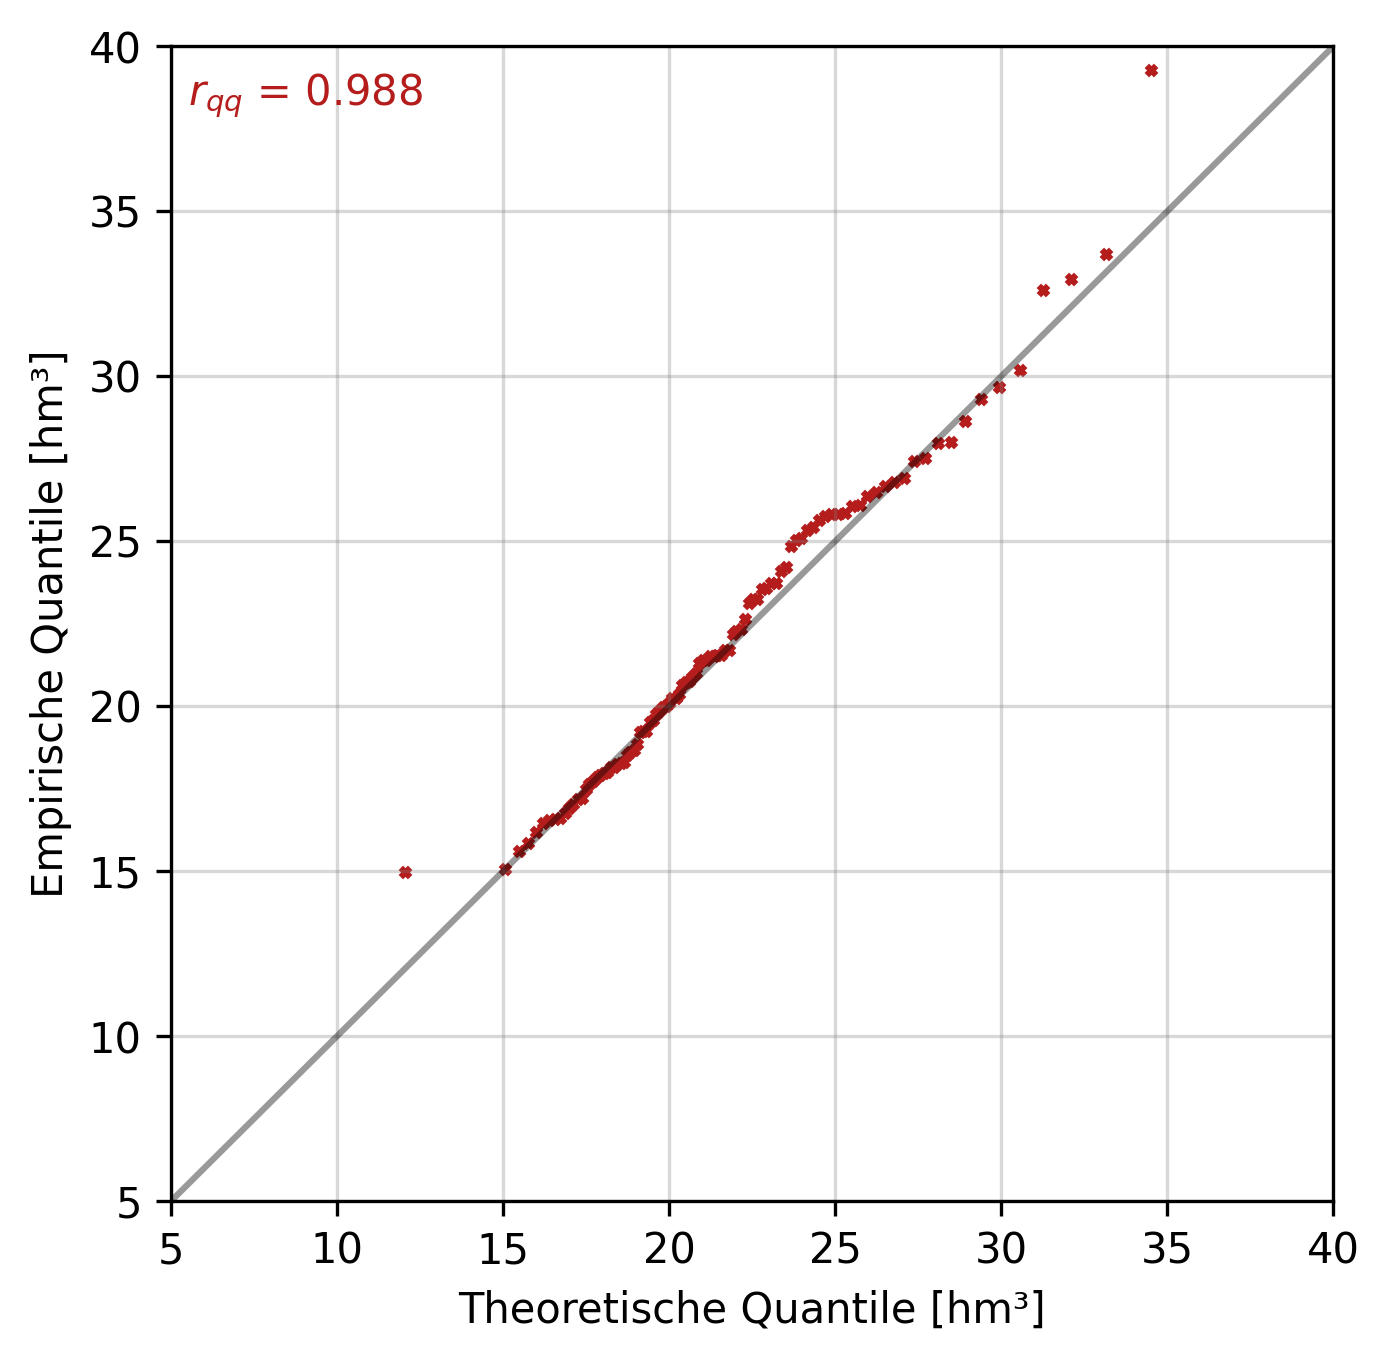
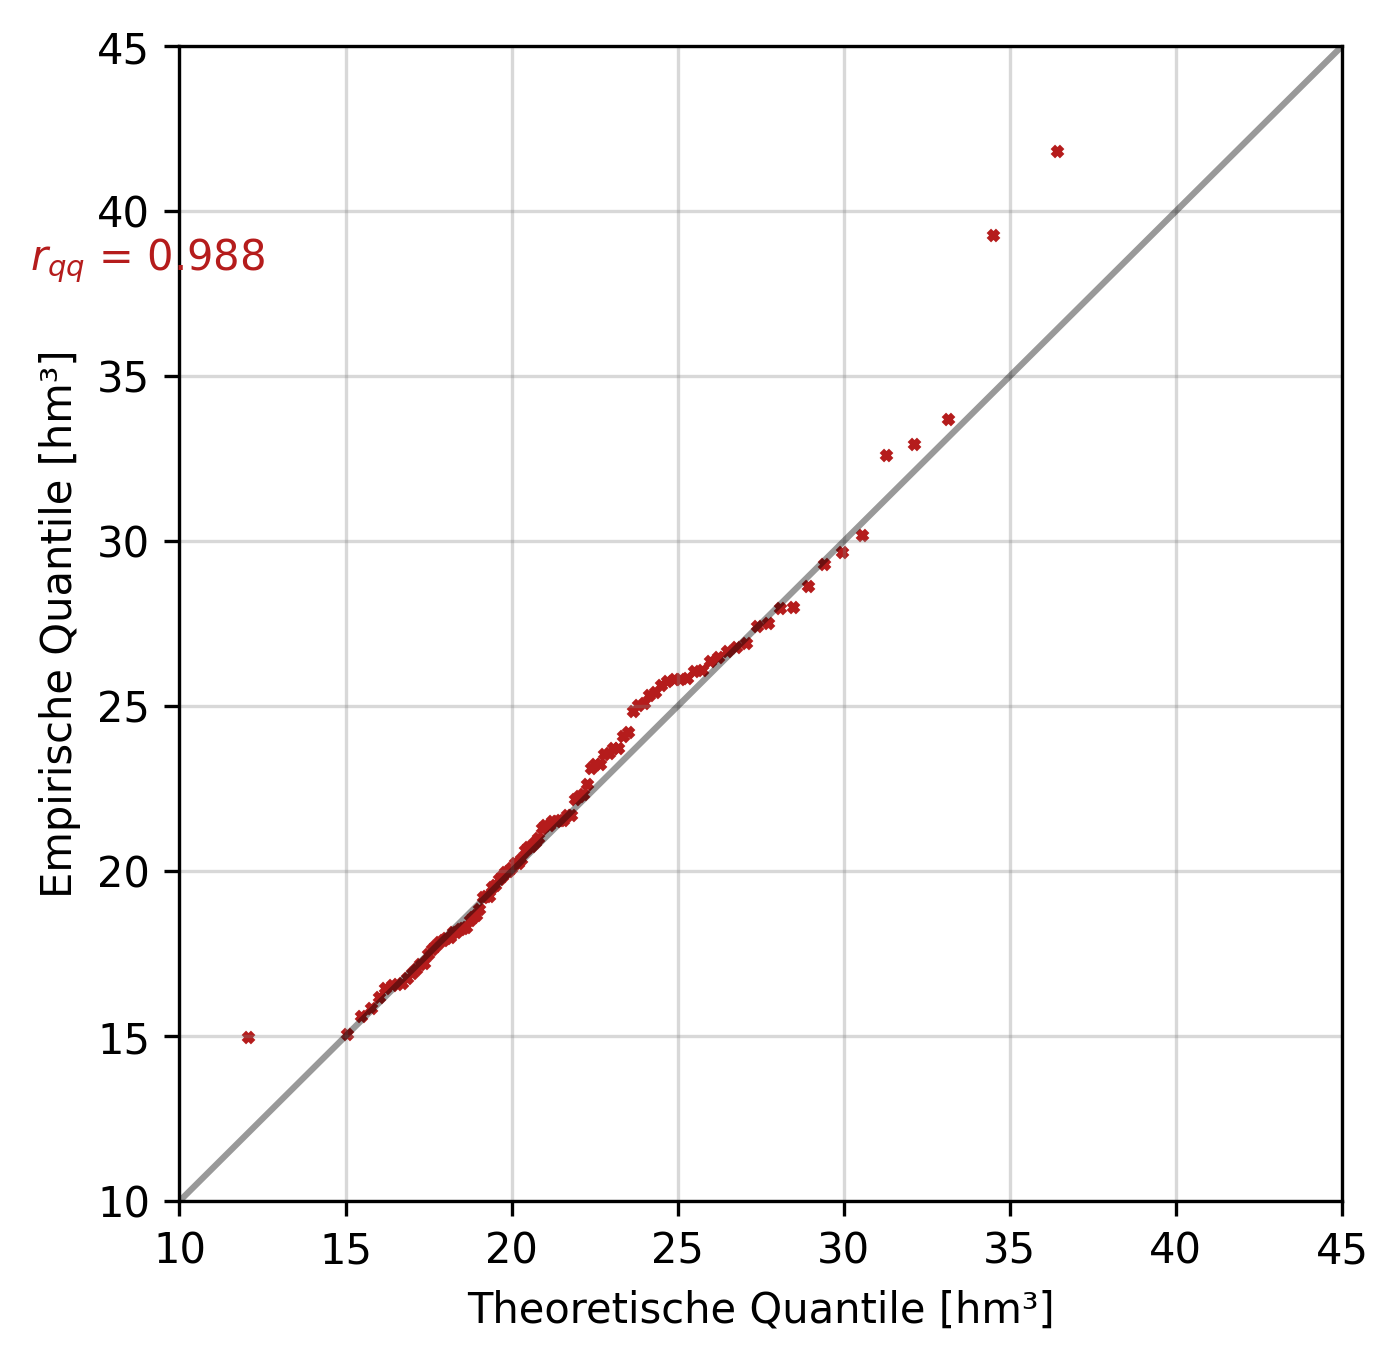
Update ax lim of QQ plot

diff --git a/code/utils/plotting.py b/code/utils/plotting.py
@@ -653,15 +653,15 @@ def qq_plot(emp: list[float], theo: list[float]) -> None:
     
     plt.figure(figsize=(5,5))
     plt.scatter(theo, emp, color=tu_red, marker="x", s=5)
-    plt.plot([0,40], [0, 40], color="k", alpha=0.4)
+    plt.plot([0,50], [0, 50], color="k", alpha=0.4)
     plt.text(5.5, 38.5, f"$r_{{qq}}$ = {round(r_qq, 3)}", ha="left", 
              va="center", fontsize=10, color=tu_red)
     plt.xlabel("Theoretische Quantile [hm³]")
     plt.ylabel("Empirische Quantile [hm³]")
-    plt.xticks(np.arange(0,45,5))
-    plt.yticks(np.arange(0,45,5))
-    plt.xlim([5, 40])
-    plt.ylim([5, 40])
+    plt.xticks(np.arange(0,50,5))
+    plt.yticks(np.arange(0,50,5))
+    plt.xlim([10, 45])
+    plt.ylim([10, 45])
     plt.grid(color="grey", alpha=0.3)
     plt.savefig(image_path+f"{pegelname}_fit_lognv_qq.png", dpi=300, bbox_inches="tight")
 

diff --git a/code/main.py b/code/main.py
@@ -31,8 +31,8 @@ from utils.dimensioning.reliability import reliability
 CHECK_DATA = False          # Finished
 CALC_COMPONENTS = False     # TODO Check
 CALC_STATS = False          # TODO Check
-FIT_CAPACITIES = False      # Finished
-SIMULATION = True           # Finished
+FIT_CAPACITIES = True      # Finished
+SIMULATION = False          # Finished
 CALC_BETA = False           # Finished
 RELIABILITY = False         # Finished
 
